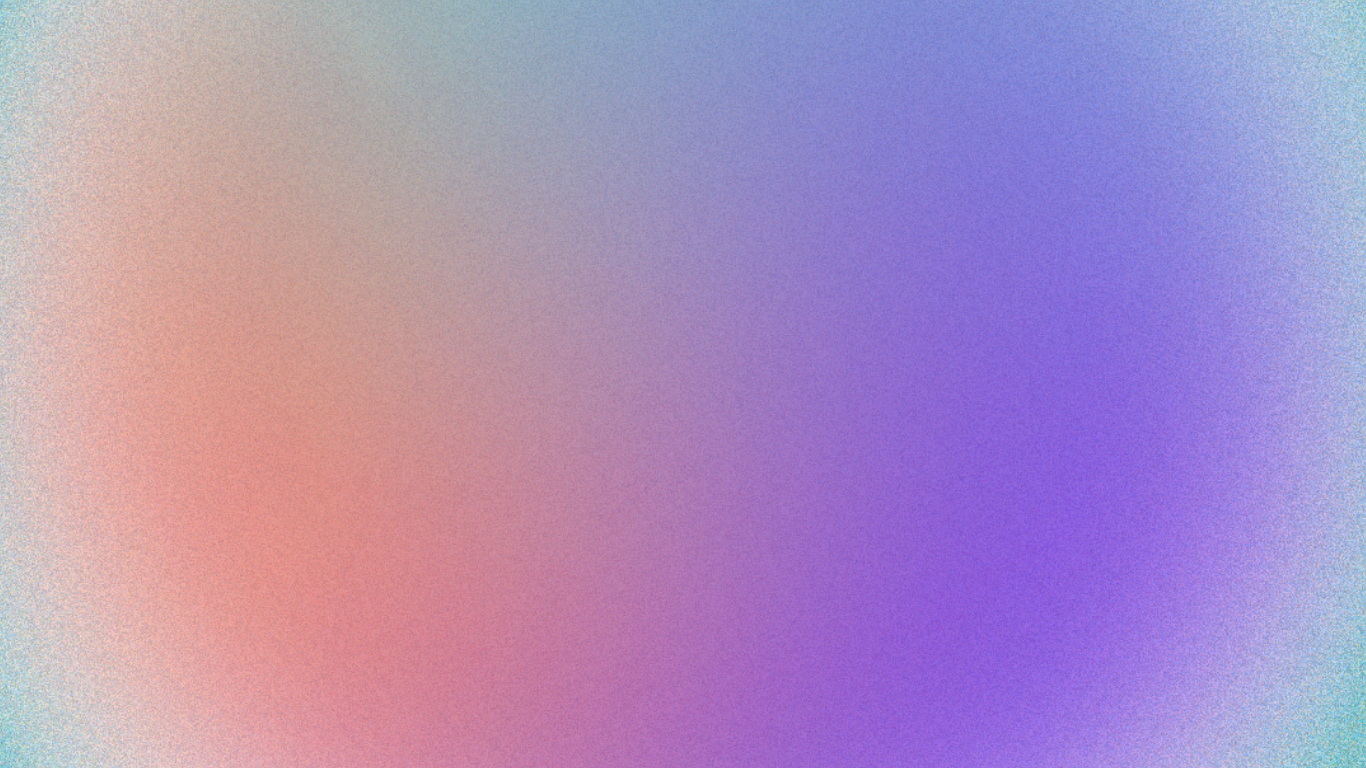
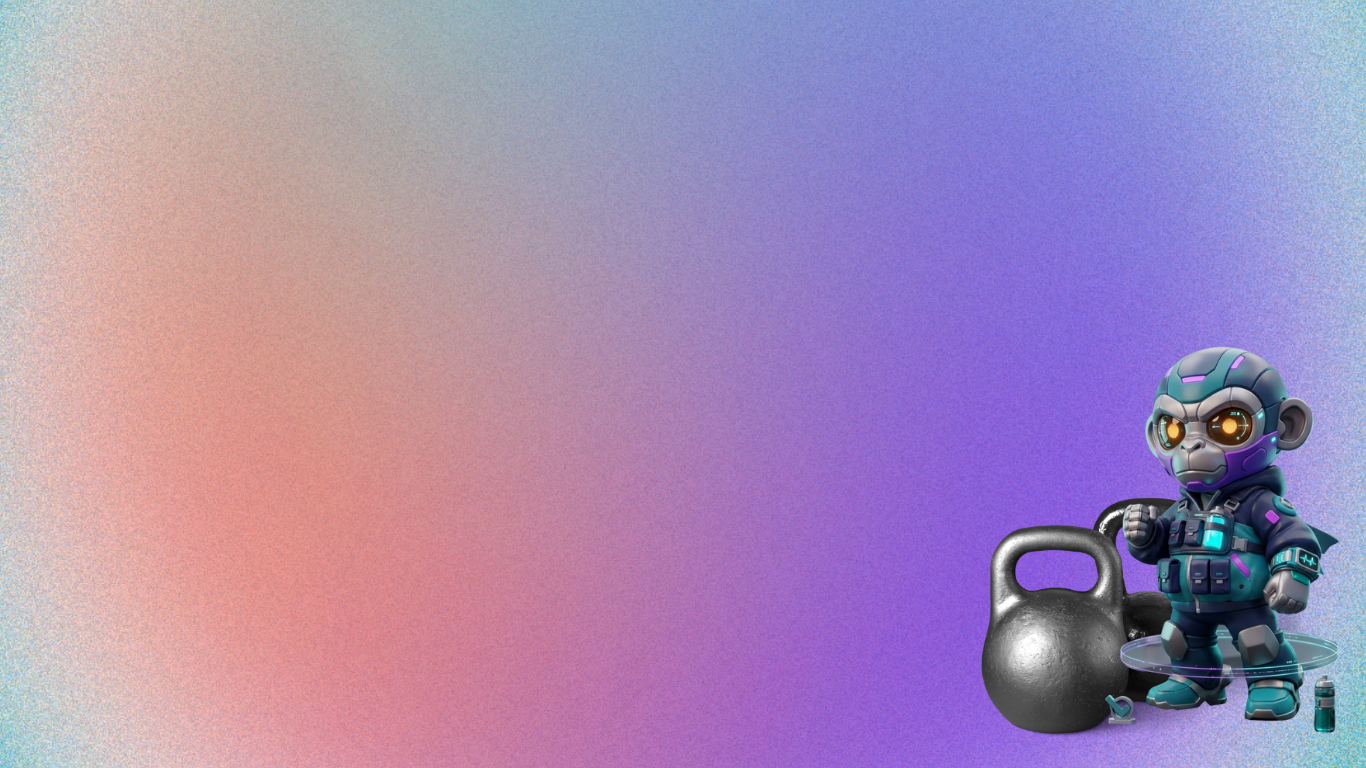
Adding right design -not furnished

Changed region(s): [[0.7072, 0.4375, 0.9839, 0.9688]]

diff --git a/src/pages/LoginPage.vue b/src/pages/LoginPage.vue
@@ -138,7 +138,14 @@ onBeforeMount(() => {
         </div>
       </div>
       
-      <div class="col-12 col-md-5 col-lg-6 d-none d-md-block"></div>
+      <div class="col-12 col-md-7 col-lg-6 text-center text-white ps-md-5">
+        <p class="sub-title text-uppercase tracking-wider">Elevate Your Motion</p>
+        <h1 class="main-title font-black text-uppercase">Track. Train.</h1>
+        <p class="promo-text font-bold mb-0">
+          Workout with your 
+          <span class="brand-highlight text-uppercase">Fitmon</span>
+        </p>
+      </div>
     </div>
   </div>
 </template>
@@ -161,6 +168,11 @@ onBeforeMount(() => {
   padding: 40px 30px;
   color: #ffffff;
   box-shadow: 0 8px 32px 0 rgba(0, 0, 0, 0.37);
+}
+
+.card-title {
+  font-size: 1.8rem;
+  font-weight: 700;
 }
 
 /* Branding & Highlights */
@@ -265,5 +277,64 @@ onBeforeMount(() => {
   font-size: 0.8rem;
   color: rgba(255, 255, 255, 0.5);
   line-height: 1.4;
+}
+
+/* Right Column: Hero Section Styles */
+.sub-title {
+  font-size: 1.2rem;
+  letter-spacing: 2px;
+  font-weight: 500;
+  margin-bottom: 0.5rem;
+  color: rgba(255, 255, 255, 0.9);
+}
+
+.main-title {
+  font-size: calc(2.8rem + 3vw);
+  font-weight: 900;
+  line-height: 0.95;
+  letter-spacing: -1px;
+  margin-bottom: 1rem;
+  color: rgba(255, 255, 255, 0.9);
+}
+
+.promo-text {
+  font-size: calc(1.5rem + 1.2vw);
+  font-weight: 600;
+  color: rgba(255, 255, 255, 0.9);
+}
+
+.brand-highlight {
+  display: block;
+  font-size: calc(2.2rem + 2.5vw);
+  font-weight: 900;
+  background: linear-gradient(135deg, #00d4ff 0%, #4a90e2 100%);
+  -webkit-background-clip: text;
+  -webkit-text-fill-color: transparent;
+  margin-top: 0.25rem;
+}
+
+/* Composed Graphic Layer Placement */
+.asset-wrapper {
+  position: relative;
+}
+
+.kettlebell-img {
+  max-width: 150px;
+  margin-right: -40px;
+  position: relative;
+  z-index: 1;
+}
+
+.character-img {
+  max-width: 240px;
+  position: relative;
+  z-index: 2;
+  animation: float 5s ease-in-out infinite;
+}
+
+@keyframes float {
+  0% { transform: translateY(0px); }
+  50% { transform: translateY(-8px); }
+  100% { transform: translateY(0px); }
 }
 </style>

diff --git a/src/pages/RegisterPage.vue b/src/pages/RegisterPage.vue
@@ -187,15 +187,22 @@ onBeforeMount(() => {
         </div>
       </div>
       
-      <div class="col-12 col-md-5 col-lg-6 d-none d-md-block"></div>
-    </div>
+    <div class="col-12 col-md-7 col-lg-6 text-center text-white ps-md-5">
+        <p class="sub-title text-uppercase tracking-wider">Elevate Your Motion</p>
+        <h1 class="main-title font-black text-uppercase">Track. Train.</h1>
+        <p class="promo-text font-bold mb-0">
+          Workout with your 
+          <span class="brand-highlight text-uppercase">Fitmon</span>
+        </p>
+        </div>
+      </div>
   </div>
 </template>
 
 <style scoped>
 /* Container & Background configuration */
 .register-container {
-  background: url('@/assets/login-background.png') no-repeat center center fixed;
+  background: url('@/assets/register-background.png') no-repeat center center fixed;
   background-size: cover;
   overflow-x: hidden;
 }
@@ -273,7 +280,7 @@ onBeforeMount(() => {
   display: flex;
   align-items: center;
   gap: 8px;
-  padding-left: 5px;
+  padding-left: 25px;
 }
 
 .custom-checkbox {
@@ -348,5 +355,39 @@ onBeforeMount(() => {
   font-size: 0.8rem;
   color: rgba(255, 255, 255, 0.5);
   line-height: 1.4;
+}
+
+/* Right Column: Hero Section Styles */
+.sub-title {
+  font-size: 1.2rem;
+  letter-spacing: 2px;
+  font-weight: 500;
+  margin-bottom: 0.5rem;
+  color: rgba(255, 255, 255, 0.9);
+}
+
+.main-title {
+  font-size: calc(2.8rem + 3vw);
+  font-weight: 900;
+  line-height: 0.95;
+  letter-spacing: -1px;
+  margin-bottom: 1rem;
+  color: rgba(255, 255, 255, 0.9);
+}
+
+.promo-text {
+  font-size: calc(1.5rem + 1.2vw);
+  font-weight: 600;
+  color: rgba(255, 255, 255, 0.9);
+}
+
+.brand-highlight {
+  display: block;
+  font-size: calc(2.2rem + 2.5vw);
+  font-weight: 900;
+  background: linear-gradient(135deg, #00d4ff 0%, #4a90e2 100%);
+  -webkit-background-clip: text;
+  -webkit-text-fill-color: transparent;
+  margin-top: 0.25rem;
 }
 </style>